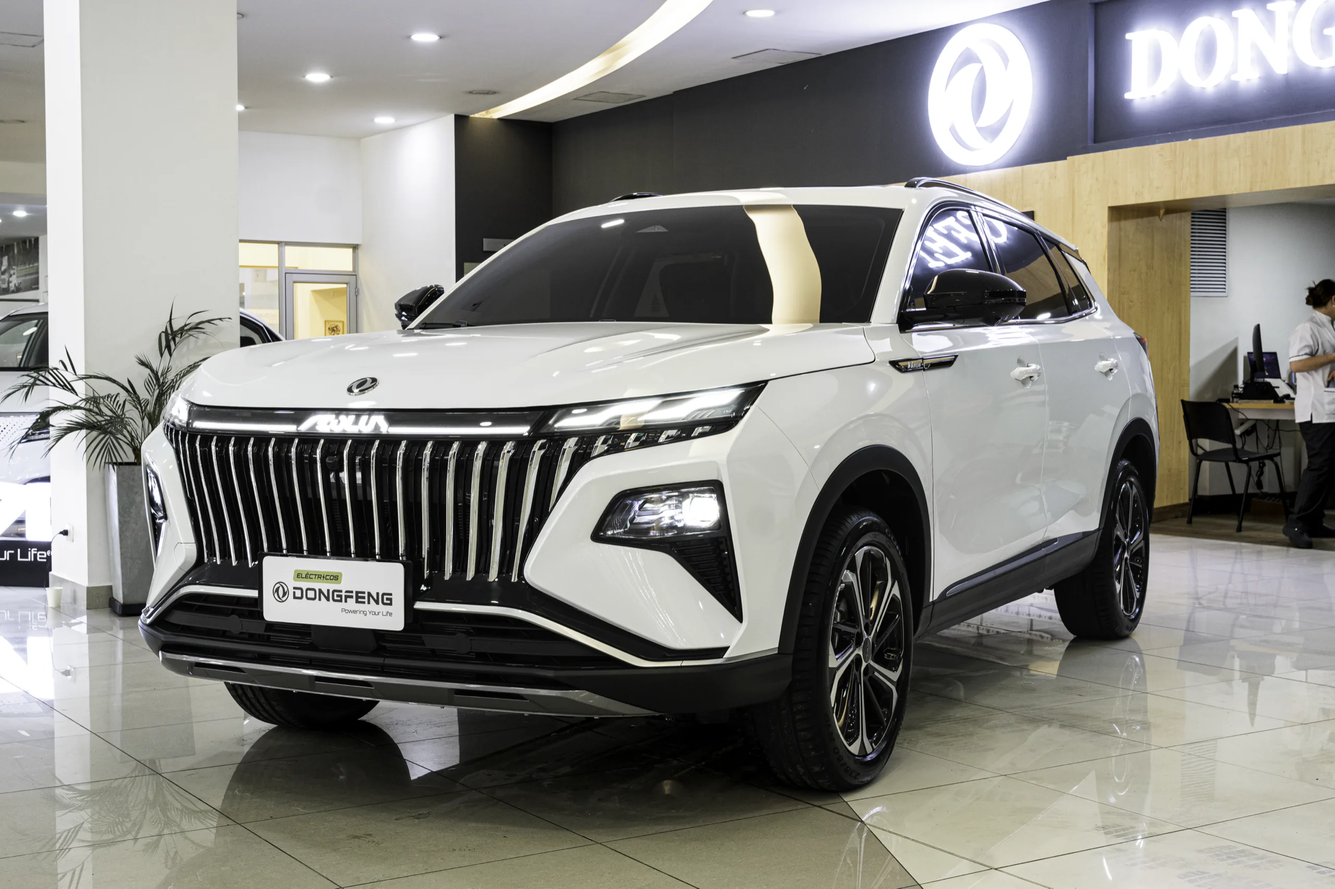
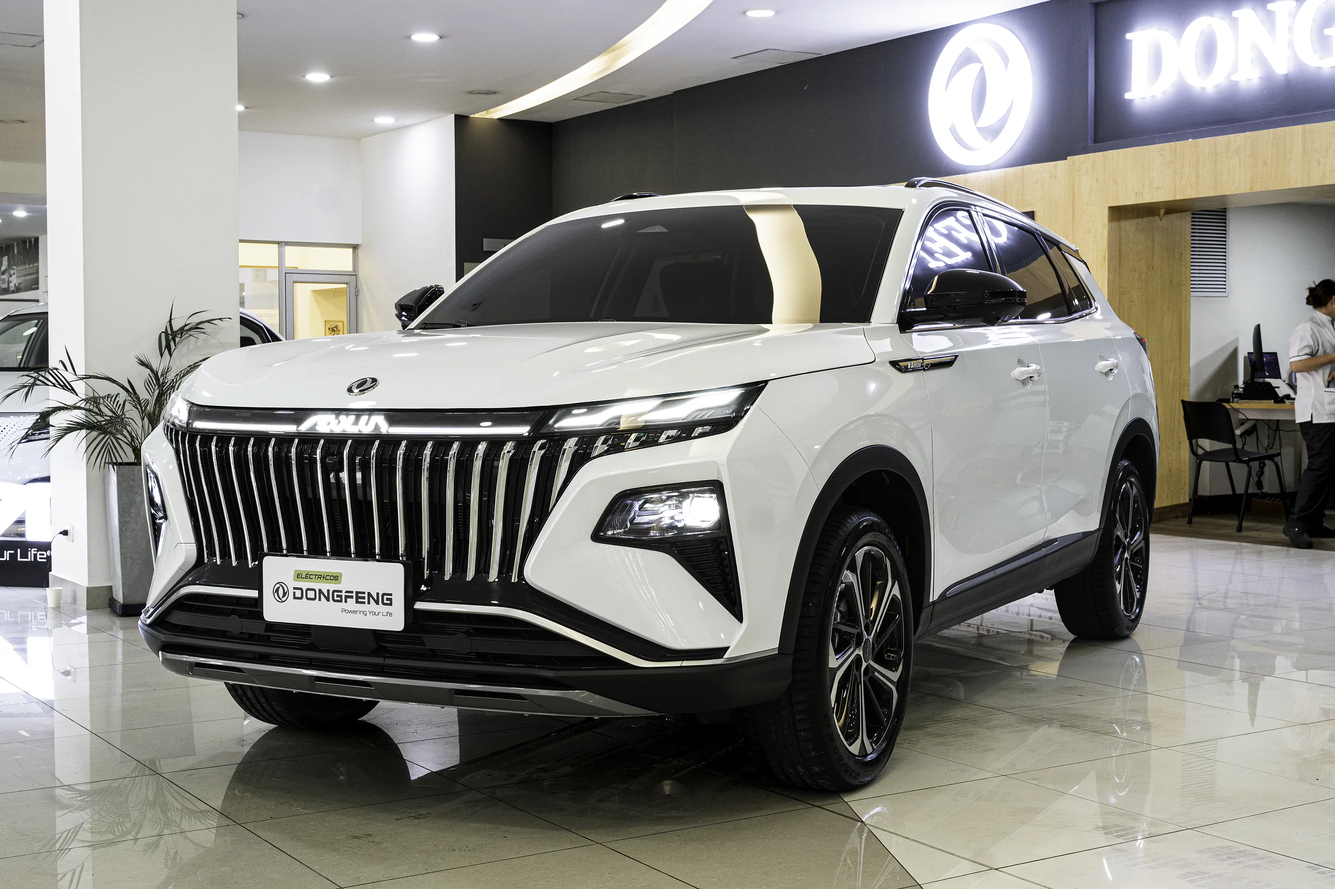
Trabajo de la semana — 33 archivos
Puesta al dia del 2026-09-03. Verificado antes de commitear: nada
de lo que entra lleva credenciales ni datos personales de clientes.

Claude-Session: https://claude.ai/code/session_01CZ676TgV7g5ucyJkaqrwpz

diff --git a/mage.html b/mage.html
@@ -161,15 +161,15 @@
   <h2 class="tit">La Mage en detalle</h2>
   <div class="gal">
     <div class="marco" id="marco">
-      <picture><source type="image/webp" srcset="img/mage/tresq-1280.webp 1280w, img/mage/tresq-1920.webp 1920w" sizes="100vw"><img class="on" src="img/mage/tresq.jpg" alt="Tres cuartos frontal" data-pie="Tres cuartos frontal" loading="eager"></picture>
-      <picture><source type="image/webp" srcset="img/mage/frontal-1280.webp 1280w, img/mage/frontal-1920.webp 1920w" sizes="100vw"><img src="img/mage/frontal.jpg" alt="Frontal de la Mage HEV" data-pie="Frontal &middot; parrilla Orbital y faros Starlight LED" loading="lazy"></picture>
-      <picture><source type="image/webp" srcset="img/mage/trasera-1280.webp 1280w, img/mage/trasera-1920.webp 1920w" sizes="100vw"><img src="img/mage/trasera.jpg" alt="Vista trasera de la Mage HEV" data-pie="Trasera &middot; luz pasante Interstellar" loading="lazy"></picture>
-      <picture><source type="image/webp" srcset="img/mage/baul-1280.webp 1280w, img/mage/baul-1920.webp 1920w" sizes="100vw"><img src="img/mage/baul.jpg" alt="Ba&uacute;l de la Mage HEV" data-pie="Ba&uacute;l &middot; port&oacute;n el&eacute;ctrico con memoria" loading="lazy"></picture>
-      <picture><source type="image/webp" srcset="img/mage/interior-1280.webp 1280w, img/mage/interior-1920.webp 1920w" sizes="100vw"><img src="img/mage/interior.jpg" alt="Interior de la Mage HEV" data-pie="Cabina &middot; pantalla Star River de 13,2 pulgadas" loading="lazy"></picture>
-      <picture><source type="image/webp" srcset="img/mage/detalle5-640.webp 640w, img/mage/detalle5-1280.webp 1280w" sizes="100vw"><img src="img/mage/detalle5.jpg" alt="Tablero y pantalla Star River de 13,2 pulgadas" data-pie="Tablero y pantalla Star River de 13,2 pulgadas" loading="lazy"></picture>
-      <picture><source type="image/webp" srcset="img/mage/detalle6-640.webp 640w, img/mage/detalle6-1280.webp 1280w" sizes="100vw"><img src="img/mage/detalle6.jpg" alt="Cabina - volante y selector electr&oacute;nico" data-pie="Cabina &middot; volante y selector electr&oacute;nico" loading="lazy"></picture>
-      <picture><source type="image/webp" srcset="img/mage/detalle7-640.webp 640w, img/mage/detalle7-1280.webp 1280w" sizes="100vw"><img src="img/mage/detalle7.jpg" alt="Volante multifunci&oacute;n tipo joystick" data-pie="Volante multifunci&oacute;n tipo joystick" loading="lazy"></picture>
-      <picture><source type="image/webp" srcset="img/mage/detalle8-640.webp 640w, img/mage/detalle8-1280.webp 1280w" sizes="100vw"><img src="img/mage/detalle8.jpg" alt="Controles de puerta y elevavidrios" data-pie="Controles de puerta y elevavidrios" loading="lazy"></picture>
+      <picture><source type="image/webp" srcset="img/mage/tresq-1280.webp 1280w, img/mage/tresq-1920.webp 1920w, img/mage/tresq-2560.webp 2560w" sizes="(max-width:1320px) 100vw, 1232px"><img class="on" src="img/mage/tresq.jpg" alt="Tres cuartos frontal" data-pie="Tres cuartos frontal" loading="eager"></picture>
+      <picture><source type="image/webp" srcset="img/mage/frontal-1280.webp 1280w, img/mage/frontal-1920.webp 1920w, img/mage/frontal-2560.webp 2560w" sizes="(max-width:1320px) 100vw, 1232px"><img src="img/mage/frontal.jpg" alt="Frontal de la Mage HEV" data-pie="Frontal &middot; parrilla Orbital y faros Starlight LED" loading="lazy"></picture>
+      <picture><source type="image/webp" srcset="img/mage/trasera-1280.webp 1280w, img/mage/trasera-1920.webp 1920w, img/mage/trasera-2560.webp 2560w" sizes="(max-width:1320px) 100vw, 1232px"><img src="img/mage/trasera.jpg" alt="Vista trasera de la Mage HEV" data-pie="Trasera &middot; luz pasante Interstellar" loading="lazy"></picture>
+      <picture><source type="image/webp" srcset="img/mage/baul-1280.webp 1280w, img/mage/baul-1920.webp 1920w, img/mage/baul-2560.webp 2560w" sizes="(max-width:1320px) 100vw, 1232px"><img src="img/mage/baul.jpg" alt="Ba&uacute;l de la Mage HEV" data-pie="Ba&uacute;l &middot; port&oacute;n el&eacute;ctrico con memoria" loading="lazy"></picture>
+      <picture><source type="image/webp" srcset="img/mage/interior-1280.webp 1280w, img/mage/interior-1920.webp 1920w, img/mage/interior-2560.webp 2560w" sizes="(max-width:1320px) 100vw, 1232px"><img src="img/mage/interior.jpg" alt="Interior de la Mage HEV" data-pie="Cabina &middot; pantalla Star River de 13,2 pulgadas" loading="lazy"></picture>
+      <picture><source type="image/webp" srcset="img/mage/detalle5-640.webp 640w, img/mage/detalle5-1280.webp 1280w" sizes="(max-width:1320px) 100vw, 1232px"><img src="img/mage/detalle5.jpg" alt="Tablero y pantalla Star River de 13,2 pulgadas" data-pie="Tablero y pantalla Star River de 13,2 pulgadas" loading="lazy"></picture>
+      <picture><source type="image/webp" srcset="img/mage/detalle6-640.webp 640w, img/mage/detalle6-1280.webp 1280w" sizes="(max-width:1320px) 100vw, 1232px"><img src="img/mage/detalle6.jpg" alt="Cabina - volante y selector electr&oacute;nico" data-pie="Cabina &middot; volante y selector electr&oacute;nico" loading="lazy"></picture>
+      <picture><source type="image/webp" srcset="img/mage/detalle7-640.webp 640w, img/mage/detalle7-1280.webp 1280w" sizes="(max-width:1320px) 100vw, 1232px"><img src="img/mage/detalle7.jpg" alt="Volante multifunci&oacute;n tipo joystick" data-pie="Volante multifunci&oacute;n tipo joystick" loading="lazy"></picture>
+      <picture><source type="image/webp" srcset="img/mage/detalle8-640.webp 640w, img/mage/detalle8-1280.webp 1280w" sizes="(max-width:1320px) 100vw, 1232px"><img src="img/mage/detalle8.jpg" alt="Controles de puerta y elevavidrios" data-pie="Controles de puerta y elevavidrios" loading="lazy"></picture>
       <div class="pie"></div>
     </div>
     <div class="minis" id="minis">

diff --git a/huge.html b/huge.html
@@ -15,7 +15,7 @@
 <meta property="og:image" content="https://torq.bellapop.co/img/huge/lateral-1280.webp">
 <meta property="og:locale" content="es_CO">
 <link rel="stylesheet" href="torq.css">
-<link rel="preload" as="image" href="img/huge/lateral-1920.webp" type="image/webp" fetchpriority="high">
+<link rel="preload" as="image" imagesrcset="img/huge/lateral-640.webp 640w, img/huge/lateral-1280.webp 1280w, img/huge/lateral-1920.webp 1920w, img/huge/lateral-2560.webp 2560w" imagesizes="(max-width:960px) 100vw, 1180px" type="image/webp" fetchpriority="high">
 <script src="tema.js"></script>
 <script src="admin.js" defer></script>
 <script src="menu.js" defer></script>
@@ -146,10 +146,10 @@
   <h2 class="tit">La Huge en detalle</h2>
   <div class="gal">
     <div class="marco" id="marco">
-      <picture><source type="image/webp" srcset="img/huge/lateral-1280.webp 1280w, img/huge/lateral-1920.webp 1920w" sizes="100vw"><img class="on" src="img/huge/lateral.jpg" alt="Lateral - 4,72 m de largo" data-pie="Lateral - 4,72 m de largo" loading="eager"></picture>
-      <picture><source type="image/webp" srcset="img/huge/tresq-1280.webp 1280w, img/huge/tresq-1920.webp 1920w" sizes="100vw"><img src="img/huge/tresq.jpg" alt="Tres cuartos frontal" data-pie="Tres cuartos frontal" loading="eager"></picture>
-      <picture><source type="image/webp" srcset="img/huge/frontal-1280.webp 1280w, img/huge/frontal-1920.webp 1920w" sizes="100vw"><img src="img/huge/frontal.jpg" alt="Frontal - parrilla Storm Torrent" data-pie="Frontal - parrilla digital Storm Torrent" loading="lazy"></picture>
-      <picture><source type="image/webp" srcset="img/huge/baul-1280.webp 1280w, img/huge/baul-1920.webp 1920w" sizes="100vw"><img src="img/huge/baul.jpg" alt="Port&oacute;n trasero el&eacute;ctrico abierto" data-pie="Port&oacute;n trasero el&eacute;ctrico" loading="lazy"></picture>
+      <picture><source type="image/webp" srcset="img/huge/lateral-1280.webp 1280w, img/huge/lateral-1920.webp 1920w, img/huge/lateral-2560.webp 2560w" sizes="(max-width:1320px) 100vw, 1232px"><img class="on" src="img/huge/lateral.jpg" alt="Lateral - 4,72 m de largo" data-pie="Lateral - 4,72 m de largo" loading="eager"></picture>
+      <picture><source type="image/webp" srcset="img/huge/tresq-1280.webp 1280w, img/huge/tresq-1920.webp 1920w, img/huge/tresq-2560.webp 2560w" sizes="(max-width:1320px) 100vw, 1232px"><img src="img/huge/tresq.jpg" alt="Tres cuartos frontal" data-pie="Tres cuartos frontal" loading="lazy"></picture>
+      <picture><source type="image/webp" srcset="img/huge/frontal-1280.webp 1280w, img/huge/frontal-1920.webp 1920w, img/huge/frontal-2560.webp 2560w" sizes="(max-width:1320px) 100vw, 1232px"><img src="img/huge/frontal.jpg" alt="Frontal - parrilla Storm Torrent" data-pie="Frontal - parrilla digital Storm Torrent" loading="lazy"></picture>
+      <picture><source type="image/webp" srcset="img/huge/baul-1280.webp 1280w, img/huge/baul-1920.webp 1920w, img/huge/baul-2560.webp 2560w" sizes="(max-width:1320px) 100vw, 1232px"><img src="img/huge/baul.jpg" alt="Port&oacute;n trasero el&eacute;ctrico abierto" data-pie="Port&oacute;n trasero el&eacute;ctrico" loading="lazy"></picture>
       <div class="pie"></div>
     </div>
     <div class="minis" id="minis">

diff --git a/e70.html b/e70.html
@@ -15,7 +15,7 @@
 <meta property="og:image" content="https://torq.bellapop.co/img/e70/tresq-tras-1280.webp">
 <meta property="og:locale" content="es_CO">
 <link rel="stylesheet" href="torq.css">
-<link rel="preload" as="image" href="img/e70/tresq-tras-1920.webp" type="image/webp" fetchpriority="high">
+<link rel="preload" as="image" imagesrcset="img/e70/tresq-tras-640.webp 640w, img/e70/tresq-tras-1280.webp 1280w, img/e70/tresq-tras-1920.webp 1920w, img/e70/tresq-tras-2560.webp 2560w" imagesizes="(max-width:960px) 100vw, 1180px" type="image/webp" fetchpriority="high">
 <script src="tema.js"></script>
 <script src="admin.js" defer></script>
 <script src="menu.js" defer></script>

diff --git a/HANDOVER.md b/HANDOVER.md
@@ -31,13 +31,13 @@ launchctl list | grep -i cloudflared
 <!-- SESION:BEGIN -->
 **Qué se hizo**
 
-Home: se sacaron las 5 escenas "de la calle" (fotogramas de video, sin emoción) y el hero se reconstruyó con 2 fotos de estudio en alta resolución, foto y texto siempre en planos separados. Vigo: hero pixelado corregido con fotogramas de mayor emoción. Hallazgo sobre el propio testing: el headless reportaba 500px de ancho aunque se pidieran 390 — las capturas "móviles" previas eran falsas; corregido con banco de iframe real, reverificado en 7 páginas × 4 anchos × 390px reales, sin solapamientos ni desbordes. Paralaje del hero (vigo/mage/huge/e70) derramaba la foto hasta 151px sobre la franja de cifras (solo 30-56px de aire) — eliminado, junto con código muerto en `efectos.js`. Contraste extendido a páginas de producto: `--mut` sin margen contra nav/chips/fichas/precios tachados en ambos temas, corregido; igual `--paper` en `simulador.html`. Inventario Camilo corregido: las 34 fotos del zip ya están en alta (4.000-6.200px); faltan 17 puntuales (artifact entregado). Push y verificación en vivo confirmadas (9dc4cfd→5e9a440).
+Video Vigo en móvil corregido: causa real era autoplay muteado bloqueado por ahorro de batería/datos; botón de play manual en las 4 páginas de producto. Hero decluttering estilo Dongfeng NZ, submenú pegajoso y 404 de `subnav.js` resueltos y confirmados en producción. Home: pixelado de galería resuelto de raíz — no era por fotos ampliadas, sino porque el pipeline topaba el ancho servido en 1.920 px por diseño; corrido completo desde originales de 6.000 px, `srcset`/`sizes` actualizados y verificados. Acceso a torq.bellapop.co resuelto (usuario Daniel, confirmado). Llegó carpeta nueva "Fotos Dongfeng HEV" (141 fotos, Mage/Huge ext./int., ~1,5 GB), compartida hoy por solanomolina@gmail.com — distinta de `DONGFENG EV`, sin revisar.
 
 **Pendiente**
 
-Re-muestreo de colores de campo tras el recorte de tarjetas (Box), sin confirmar empalme. Enviar a Camilo la lista de 17 fotos.
+Confirmación del usuario sobre si el hero cumple el estándar aspiracional (paisaje, montañas) de Kia/Tesla/BMW/Audi/Mercedes. Re-muestreo de colores tras recorte de tarjetas (Box), sin confirmar empalme. Enviar a Camilo la lista de 17 fotos faltantes. Guardar la contraseña de torq.bellapop.co, mostrada solo una vez. Revisar y clasificar las 141 fotos nuevas de "Fotos Dongfeng HEV".
 
 **Próximo paso**
 
-Cerrar el re-muestreo de colores de campo y verificar el empalme en las tarjetas recortadas.
+Confirmar con el usuario si el hero actualizado satisface el estándar aspiracional antes de seguir con el re-muestreo de colores.
 <!-- SESION:END -->

diff --git a/CLAUDE.md b/CLAUDE.md
@@ -197,14 +197,14 @@ empaquetado `build_artifact.py`) viven fuera de este repo, en
 ---
 
 <!-- VIVO:BEGIN -->
-## Estado real — 2026-08-23 22:09
+## Estado real — 2026-09-03 00:30
 
 > Regenerado cada noche por `recursos/sistema-vivo/sistema_vivo.py` leyendo el
 > disco. **No editar a mano**: lo de afuera de las marcas sí es tuyo y se respeta.
 
-- **Git** · rama `main` · árbol limpio
-  - último commit: `4e5c09b 2026-08-23 Sincroniza trabajo local pendiente`
+- **Git** · rama `main` · **33 archivos sin commitear**
+  - último commit: `db9762a 2026-08-23 Estado vivo regenerado por sistema_vivo.py`
 - **Publicado en:** [torq.bellapop.co](https://torq.bellapop.co) (:8790) · [torque.bellapop.co](https://torque.bellapop.co) (:8790) · [torque.themesa.co](https://torque.themesa.co) (:8795) · [showroom.bellapop.co](https://showroom.bellapop.co) (:8795)
 - **Automatización** · ninguna: nada corre solo en este proyecto
-- **Código** · 430 archivos · último cambio 2026-08-23 en `torq.css`
+- **Código** · 456 archivos · último cambio 2026-08-31 en `huge.html`
 <!-- VIVO:END -->

diff --git a/AGENTS.md b/AGENTS.md
@@ -1,0 +1,1 @@
+CLAUDE.md
